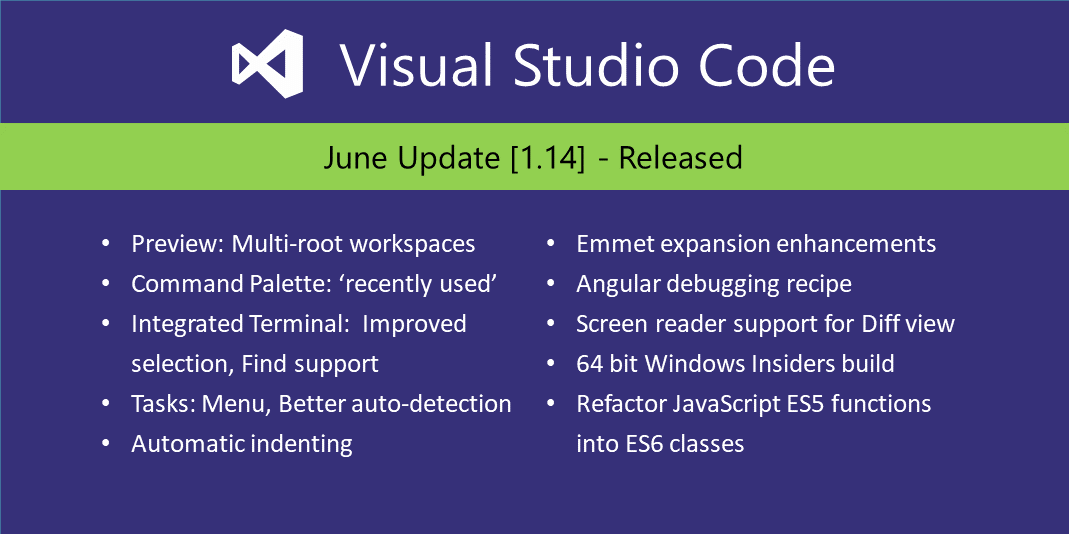
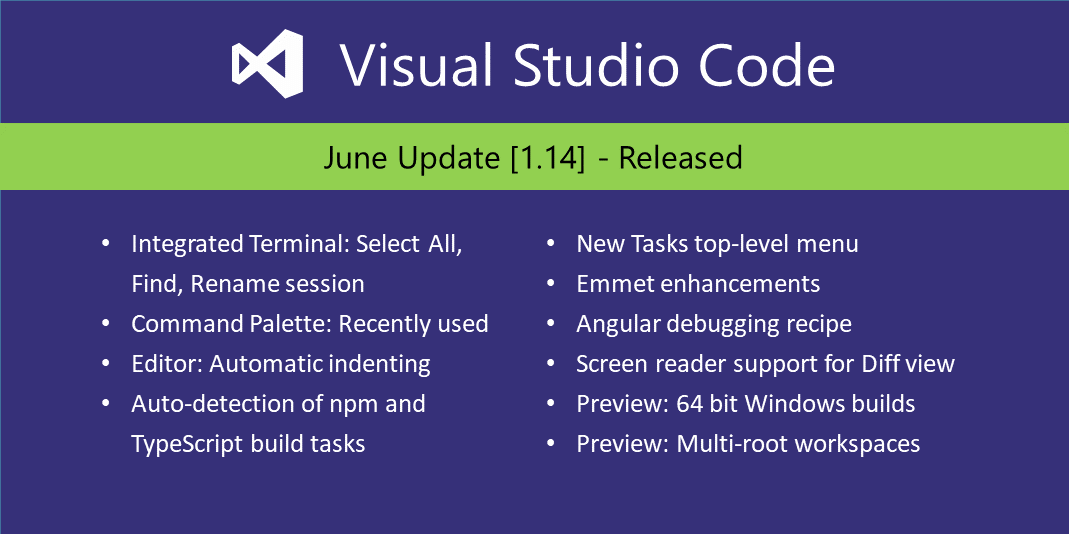
Update 1.14 social image and reorder notes

diff --git a/release-notes/v1_14.md b/release-notes/v1_14.md
@@ -9,15 +9,15 @@ MetaSocialImage: 1_14_release-highlights.png
 
 Welcome to the June 2017 release of Visual Studio Code. There are a number of significant updates in this version that we hope you will like, some of the key highlights include:
 
-* **[Preview: Multi-root workspaces](#preview-multi-root-workspaces)** - Open multiple projects in the same editor (available in Insiders build).
+* **[Integrated Terminal improvements](#integrated-terminal)** - New commands to Select All, Find and Rename.
 * **[Command Palette MRU list](#command-palette-improvements)** - Quickly find and run your recently used commands.
-* **[Integrated Terminal improvements](#integrated-terminal)** - Better text selection and new Find support.
 * **[New Tasks menu](#tasks)** - Top level **Tasks** menu for running builds and configuring the task runner.
 * **[Automatic indentation](#auto-indent-on-type-move-lines-and-paste)** - Auto indent while typing, moving, and pasting source code.
 * **[Emmet abbreviation enhancements](#emmet-abbreviation-improvements)** - Add Emmet to any language. Now with multiple cursor support.
 * **[Angular debugging recipe](#recipe-for-angular-debugging)** - Debug your Angular client in VS Code.
 * **[Better screen reader support](#lists-and-quick-pick-leverage-aria-setsize-and-aria-posinset)** - Aria properties to better present list and drop-down items.
-* **[64 bit Windows Insiders build](#windows-64-bit-insiders)** - Try out the Windows 64 bit version.
+* **[Preview: 64 bit Windows build](#windows-64-bit-insiders)** - Try out the Windows 64 bit version (Insiders build).
+* **[Preview: Multi-root workspaces](#preview-multi-root-workspaces)** - Open multiple projects in the same editor (available in Insiders build).
 
 The release notes are arranged in the following sections related to VS Code focus areas. Here are some further updates:
 
@@ -26,125 +26,6 @@ The release notes are arranged in the following sections related to VS Code focu
 * **[Debugging](#debugging)** - Simplifications for Node.js debug configurations.
 * **[Tasks](#tasks)** - Auto-detect and customize npm scripts and TypeScript compiler to run in VS Code.
 * **[Extension Authoring](#extension-authoring)** - SVG rendering constraint, custom views visibility, new Debug API.
-
-
-## Preview: Multi Root Workspaces
-
-We have been busy this milestone on the development of "[Multi-Root Workspaces](https://github.com/Microsoft/vscode/issues/396)" in VS Code (refer to our [previous release notes](https://code.visualstudio.com/updates/v1_13#_multiroot-workspaces) for the design decisions we made last sprint). The outcome of this work is what we call a "Minimum Viable Product" (MVP) to enable self-hosting on multiple root folder workspaces. The features outlined below are currently only available from our [Insiders](https://code.visualstudio.com/insiders) build and not Stable. More work is needed before we can make this feature available for all users. To try it out, grab our Insiders build from [https://code.visualstudio.com/insiders](https://code.visualstudio.com/insiders).
-
-### File Explorer
-
-The File Explorer can now show multiple root folders in one tree. You can easily add root folders from the **File** menu or context menu:
-
-![Add Root Folder](images/1_14/add-root-folder.png)
-
-Once a root folder is added, the Explorer will show the new folder as root in the files tree. You can right click on any of the root folders to add more root folders or to remove it.
-
-![Remove Root Folder](images/1_14/explorer-context.png)
-
-The File Explorer should work and behave as before. You can move files between root folders and use any of the typical file operation actions provided in the context menu and the Explorer view. Settings like `files.exclude` are supported for each root folder if configured and across all folders if configured as global user setting.
-
-### Search
-
-Full text search and the **Quick Open** file picker take the additional root folders into account. When searching, results from all of the root folders will show up in the search results view:
-
-![Multi Root Search](images/1_14/search-multi-root.png)
-
-To distinguish results with the same file name across root folders, the name of the root folder is used as prefix to the relative path in the results list. Settings like `search.exclude` are supported for each root folder if configured and across all folders if configured as global user setting.
-
-![Multi Root Quick Open](images/1_14/multi-root-quickopen.png)
-
-### Settings
-
-With multiple root folders in one workspace, it is possible to have a `.vscode` folder in each root folder defining the settings that should apply for that folder. We classified settings into Workspace and Folder scoped to determine which setting can be applied at Workspace and Folder level.
-
-A subset of settings is supported at a Folder level in this environment, specifically:
-
-* `editor.*`
-* `files.exclude`
-* `files.trimTrailingWhitespace`
-* `files.insertFinalNewLine`
-* `files.encoding`
-* `files.autoGuessEncoding`
-* `files.watcherExclude`
-* `search.exclude`
-
-Other settings are currently not supported on a per-folder basis and we will add more to the above list in the future.
-
-Refer to the [issue](https://github.com/Microsoft/vscode/issues/28538#issuecomment-310613318) to get more information about how settings are applied in a multi-root workspace.
-
-### Proposed multi-root API
-
-Having multiple folders open in the editor requires a more powerful API. From the single root days, there is the `rootPath` API and for compatibility that will remain. We have a new and more powerful API in the pipeline. The current *proposed* API is shown below and enables you to inspect all workspace folders and sends an event when those change. It also helps you in adopting to the new configuration model.
-
-```ts
-export namespace workspace {
-    /**
-    * List of workspace folders or `undefined` when no folder is open. The *first*
-    * element in the array is equal to the [`rootPath`](#workspace.rootPath)
-    */
-    export let workspaceFolders: Uri[] | undefined
-    /**
-     * An event that is emitted when a workspace folder is added or removed.
-     */
-    export const onDidChangeWorkspaceFolders: Event<WorkspaceFoldersChangeEvent>;
-    /**
-    * Get a configuration object.
-    *
-    * @param section A dot-separated identifier.
-    * @param resource A resource for which configuration is asked
-    * @return The full workspace configuration or a subset.
-    */
-    export function getConfiguration2(section?: string, resource?: Uri): WorkspaceConfiguration2;
-}
-
-export interface WorkspaceFoldersChangeEvent {
-    readonly addedFolders: Uri[];
-    readonly removedFolders: Uri[];
-}
-
-export interface WorkspaceConfiguration2 extends WorkspaceConfiguration {
-
-    /**
-    * Retrieve all information about a configuration setting. A configuration value
-    * often consists of a *default* value, a global or installation-wide value,
-    * a workspace-specific value and a folder-specific value.
-    *
-    * The *effective* value (returned by [`get`](#WorkspaceConfiguration.get))
-    * is computed like this: `defaultValue` overwritten by `globalValue`,
-    * `globalValue` overwritten by `workspaceValue`. `workspaceValue` overwritten by `folderValue`.
-    *
-    * *Note:* The configuration name must denote a leaf in the configuration tree
-    * (`editor.fontSize` vs `editor`) otherwise no result is returned.
-    *
-    * @param section Configuration name, supports _dotted_ names.
-    * @return Information about a configuration setting or `undefined`.
-    */
-    inspect<T>(section: string): { key: string; defaultValue?: T; globalValue?: T; workspaceValue?: T, folderValue?: T } | undefined;
-
-}
-
-```
-
-**Note:** The API is still proposed and you will need to enable it per extension. In the `package.json` file of your extension, add the following line:
-
-```json
-"enableProposedApi": true
-```
-
-Also, copy the [`vscode.proposed.d.ts`](https://github.com/Microsoft/vscode/blob/master/src/vs/vscode.proposed.d.ts) file from our repository to your project. Including this file in your project enables type-checking and IntelliSense.
-
-As the API is in the proposed state, it is still being refined and breaking changes are likely to happen. For that reason, we don't support publishing extensions that use proposed APIs. However we do want extension writers, the final customers of the extension API, to help us define how the final API should look and what it should support. Don't be shy with feedback!
-
-### Upcoming features
-
-There is still a lot of work ahead of us to make the multi-root experience great.
-
-These areas will get special attention in the next sprint:
-
-* Source Control UI for multiple root folders
-* Task and Debug support
-* Rich languages support across root folders
 
 ## Workbench
 
@@ -728,6 +609,124 @@ We are looking for feedback from the community and will add more automation as w
 ### Monaco Editor
 
 We published a new version of the [Monaco Editor](https://microsoft.github.io/monaco-editor/), bringing it up to date with VS Code and making numerous accessibility improvements.
+
+## Preview: Multi Root Workspaces
+
+We have been busy this milestone on the development of "[Multi-Root Workspaces](https://github.com/Microsoft/vscode/issues/396)" in VS Code (refer to our [previous release notes](https://code.visualstudio.com/updates/v1_13#_multiroot-workspaces) for the design decisions we made last sprint). The outcome of this work is what we call a "Minimum Viable Product" (MVP) to enable self-hosting on multiple root folder workspaces. The features outlined below are currently only available from our [Insiders](https://code.visualstudio.com/insiders) build and not Stable. More work is needed before we can make this feature available for all users. To try it out, grab our Insiders build from [https://code.visualstudio.com/insiders](https://code.visualstudio.com/insiders).
+
+### File Explorer
+
+The File Explorer can now show multiple root folders in one tree. You can easily add root folders from the **File** menu or context menu:
+
+![Add Root Folder](images/1_14/add-root-folder.png)
+
+Once a root folder is added, the Explorer will show the new folder as root in the files tree. You can right click on any of the root folders to add more root folders or to remove it.
+
+![Remove Root Folder](images/1_14/explorer-context.png)
+
+The File Explorer should work and behave as before. You can move files between root folders and use any of the typical file operation actions provided in the context menu and the Explorer view. Settings like `files.exclude` are supported for each root folder if configured and across all folders if configured as global user setting.
+
+### Search
+
+Full text search and the **Quick Open** file picker take the additional root folders into account. When searching, results from all of the root folders will show up in the search results view:
+
+![Multi Root Search](images/1_14/search-multi-root.png)
+
+To distinguish results with the same file name across root folders, the name of the root folder is used as prefix to the relative path in the results list. Settings like `search.exclude` are supported for each root folder if configured and across all folders if configured as global user setting.
+
+![Multi Root Quick Open](images/1_14/multi-root-quickopen.png)
+
+### Settings
+
+With multiple root folders in one workspace, it is possible to have a `.vscode` folder in each root folder defining the settings that should apply for that folder. We classified settings into Workspace and Folder scoped to determine which setting can be applied at Workspace and Folder level.
+
+A subset of settings is supported at a Folder level in this environment, specifically:
+
+* `editor.*`
+* `files.exclude`
+* `files.trimTrailingWhitespace`
+* `files.insertFinalNewLine`
+* `files.encoding`
+* `files.autoGuessEncoding`
+* `files.watcherExclude`
+* `search.exclude`
+
+Other settings are currently not supported on a per-folder basis and we will add more to the above list in the future.
+
+Refer to the [issue](https://github.com/Microsoft/vscode/issues/28538#issuecomment-310613318) to get more information about how settings are applied in a multi-root workspace.
+
+### Proposed multi-root API
+
+Having multiple folders open in the editor requires a more powerful API. From the single root days, there is the `rootPath` API and for compatibility that will remain. We have a new and more powerful API in the pipeline. The current *proposed* API is shown below and enables you to inspect all workspace folders and sends an event when those change. It also helps you in adopting to the new configuration model.
+
+```ts
+export namespace workspace {
+    /**
+    * List of workspace folders or `undefined` when no folder is open. The *first*
+    * element in the array is equal to the [`rootPath`](#workspace.rootPath)
+    */
+    export let workspaceFolders: Uri[] | undefined
+    /**
+     * An event that is emitted when a workspace folder is added or removed.
+     */
+    export const onDidChangeWorkspaceFolders: Event<WorkspaceFoldersChangeEvent>;
+    /**
+    * Get a configuration object.
+    *
+    * @param section A dot-separated identifier.
+    * @param resource A resource for which configuration is asked
+    * @return The full workspace configuration or a subset.
+    */
+    export function getConfiguration2(section?: string, resource?: Uri): WorkspaceConfiguration2;
+}
+
+export interface WorkspaceFoldersChangeEvent {
+    readonly addedFolders: Uri[];
+    readonly removedFolders: Uri[];
+}
+
+export interface WorkspaceConfiguration2 extends WorkspaceConfiguration {
+
+    /**
+    * Retrieve all information about a configuration setting. A configuration value
+    * often consists of a *default* value, a global or installation-wide value,
+    * a workspace-specific value and a folder-specific value.
+    *
+    * The *effective* value (returned by [`get`](#WorkspaceConfiguration.get))
+    * is computed like this: `defaultValue` overwritten by `globalValue`,
+    * `globalValue` overwritten by `workspaceValue`. `workspaceValue` overwritten by `folderValue`.
+    *
+    * *Note:* The configuration name must denote a leaf in the configuration tree
+    * (`editor.fontSize` vs `editor`) otherwise no result is returned.
+    *
+    * @param section Configuration name, supports _dotted_ names.
+    * @return Information about a configuration setting or `undefined`.
+    */
+    inspect<T>(section: string): { key: string; defaultValue?: T; globalValue?: T; workspaceValue?: T, folderValue?: T } | undefined;
+
+}
+
+```
+
+**Note:** The API is still proposed and you will need to enable it per extension. In the `package.json` file of your extension, add the following line:
+
+```json
+"enableProposedApi": true
+```
+
+Also, copy the [`vscode.proposed.d.ts`](https://github.com/Microsoft/vscode/blob/master/src/vs/vscode.proposed.d.ts) file from our repository to your project. Including this file in your project enables type-checking and IntelliSense.
+
+As the API is in the proposed state, it is still being refined and breaking changes are likely to happen. For that reason, we don't support publishing extensions that use proposed APIs. However we do want extension writers, the final customers of the extension API, to help us define how the final API should look and what it should support. Don't be shy with feedback!
+
+### Upcoming features
+
+There is still a lot of work ahead of us to make the multi-root experience great.
+
+These areas will get special attention in the next sprint:
+
+* Source Control UI for multiple root folders
+* Task and Debug support
+* Rich languages support across root folders
 
 ## New Commands
 
